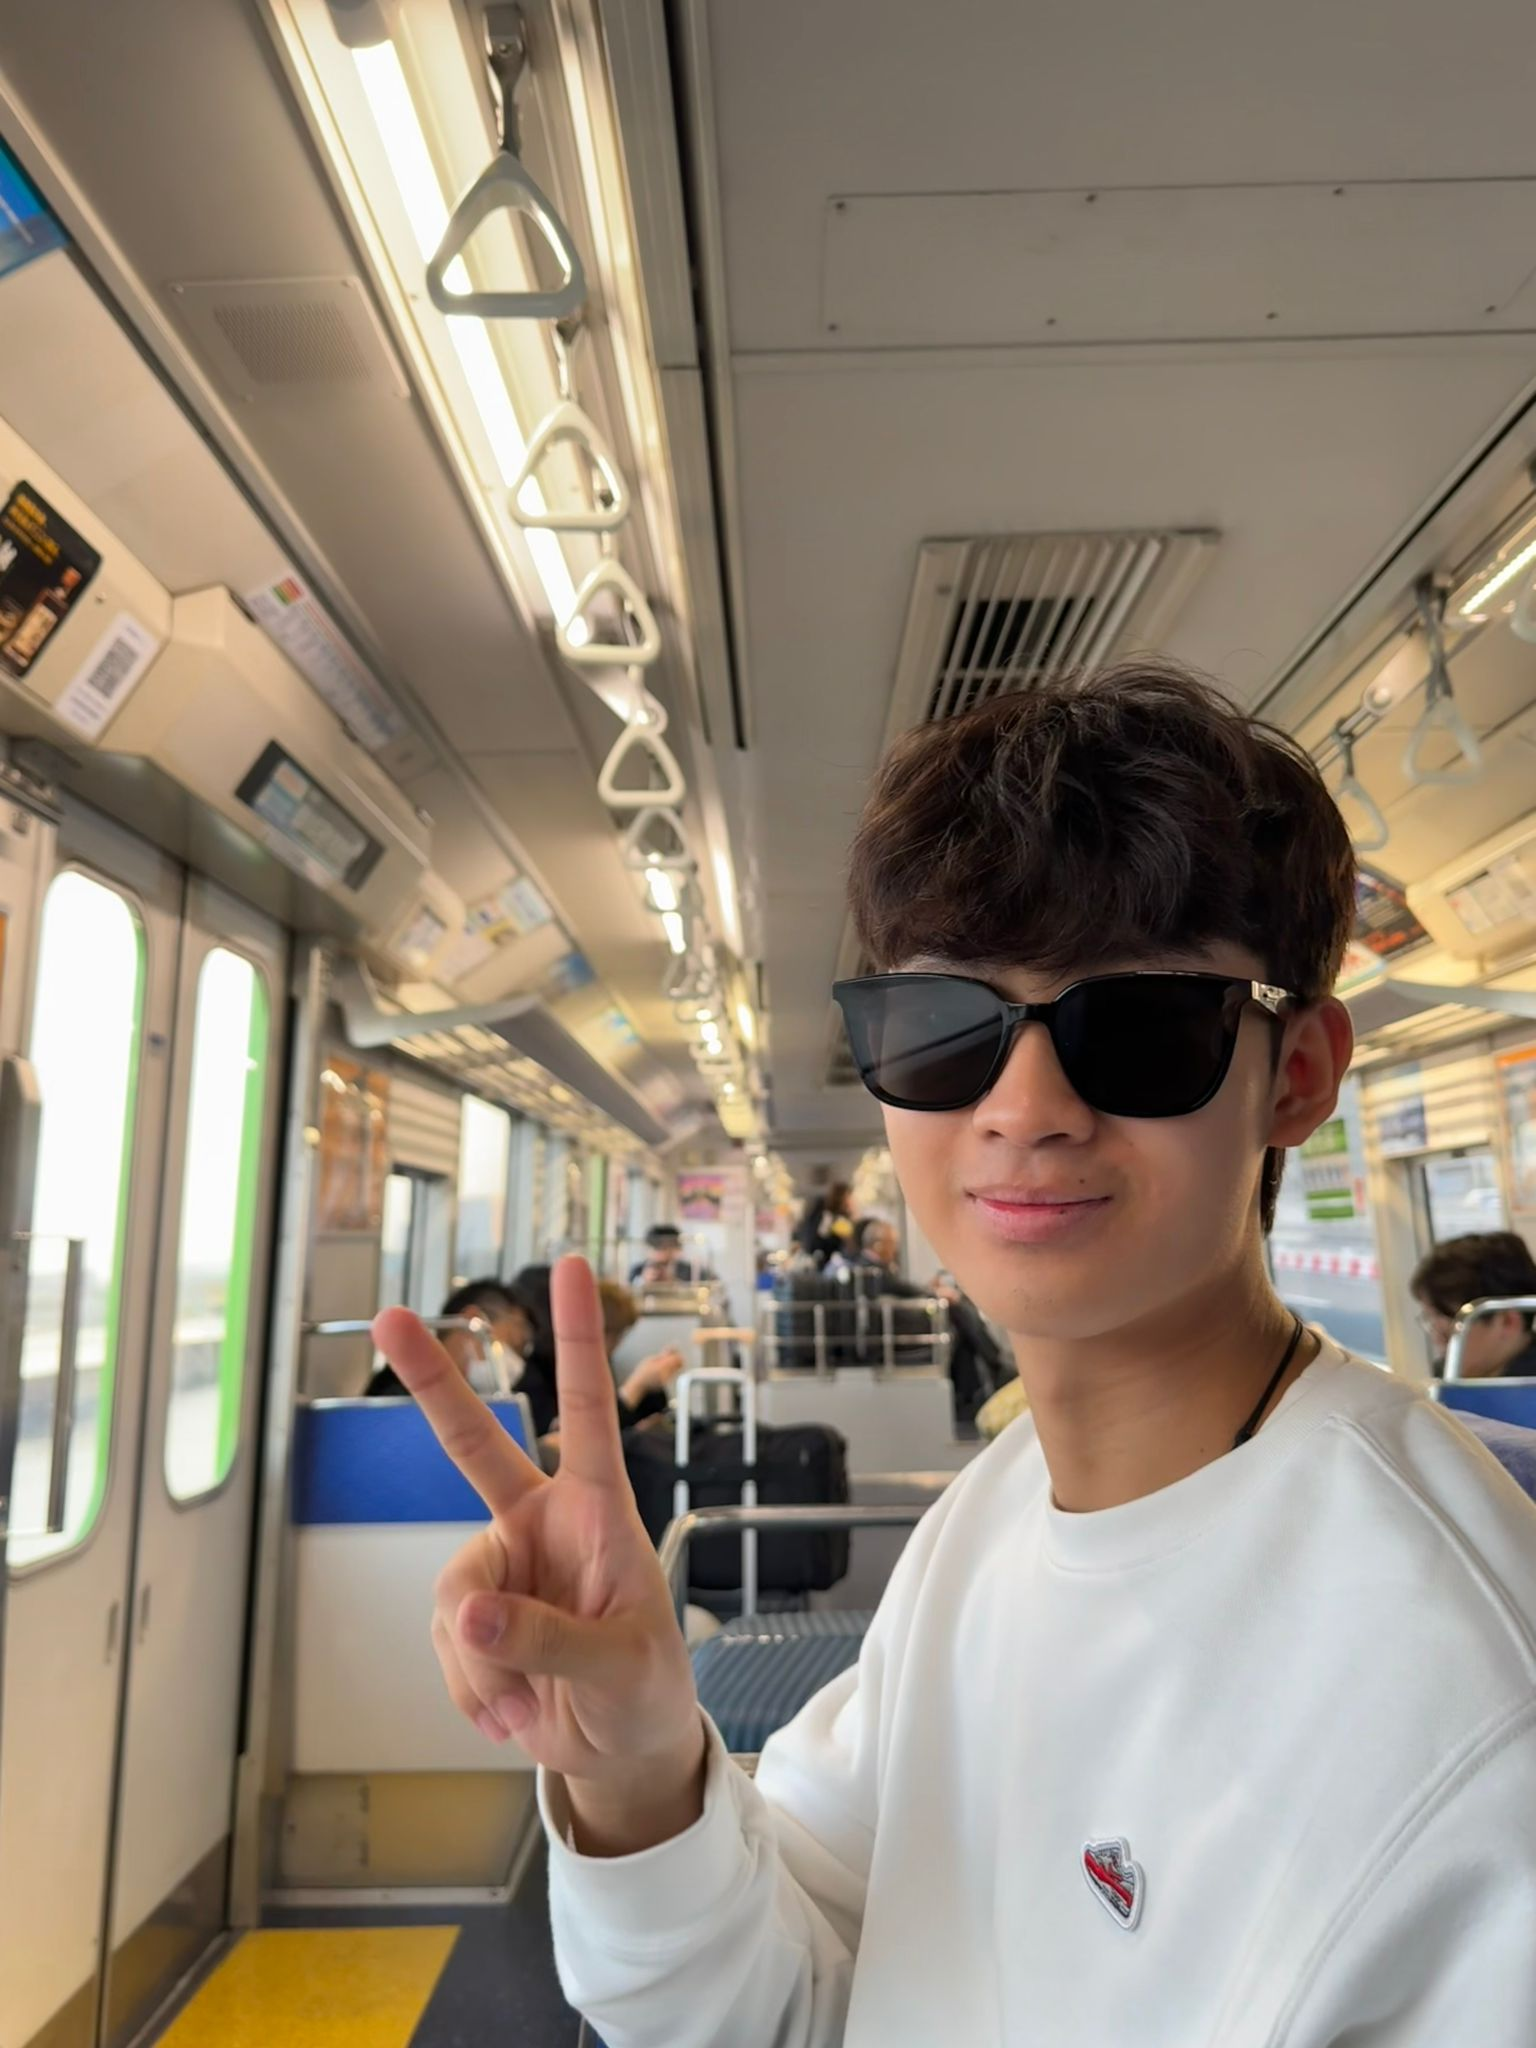
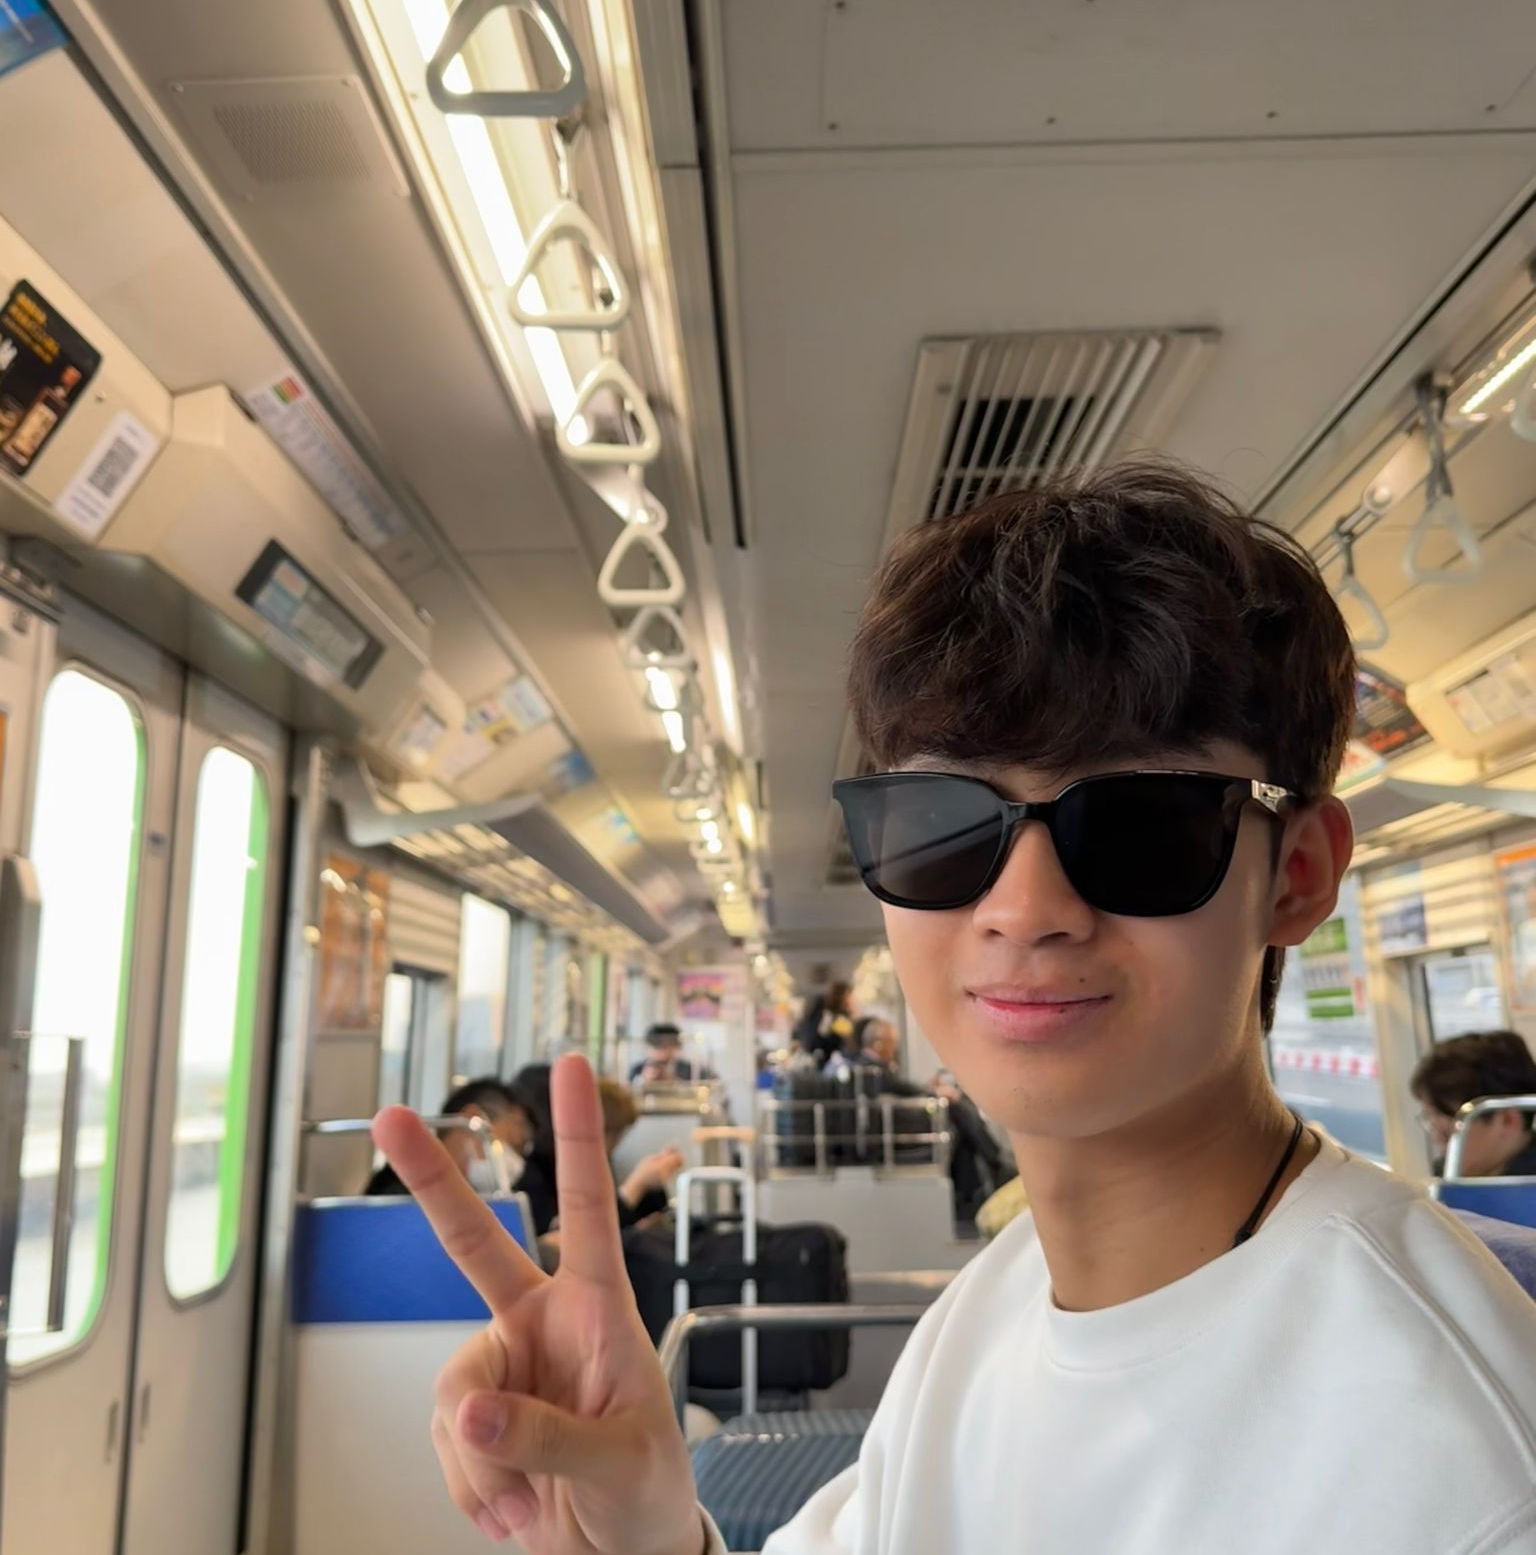
update

diff --git a/src/pages/About.tsx b/src/pages/About.tsx
@@ -54,15 +54,13 @@ export default function About() {
       name: "Bang Yan",
       role: "Tells stories in Chinese",
       color: "bg-rose-50 text-rose-700",
-      image:
-        "https://images.unsplash.com/photo-1472099645785-5658abf4ff4e?auto=format&fit=crop&q=80&w=400",
+      image: "/bang.jpg",
     },
     {
       name: "You!",
       role: "Join our Team",
       color: "bg-neutral-100 text-neutral-700",
-      image:
-        "/you.jpg",
+      image: "/you.jpg",
     },
   ];
 
